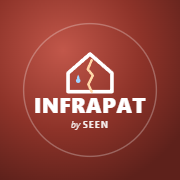
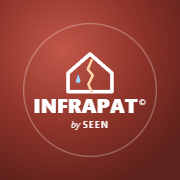
INFRAPAT — ícone com símbolo ©

Changed region(s): [[0.1667, 0.5278, 0.8333, 0.6389]]

diff --git a/infrapat/sw.js b/infrapat/sw.js
@@ -1,5 +1,5 @@
 /* INFRAPAT · service worker: funciona sem rede; procura sempre a versão nova quando há rede */
-const CACHE = 'infrapat-v1.4';
+const CACHE = 'infrapat-v1.5';
 const FICHEIROS = ['./', './index.html', './manifest.webmanifest', './icon-192.png', './icon-512.png', './icon-maskable-512.png', './apple-touch-icon.png'];
 self.addEventListener('install', e => { e.waitUntil(caches.open(CACHE).then(c => c.addAll(FICHEIROS)).then(() => self.skipWaiting())); });
 self.addEventListener('activate', e => { e.waitUntil(caches.keys().then(ks => Promise.all(ks.filter(k => k !== CACHE).map(k => caches.delete(k)))).then(() => self.clients.claim())); });
